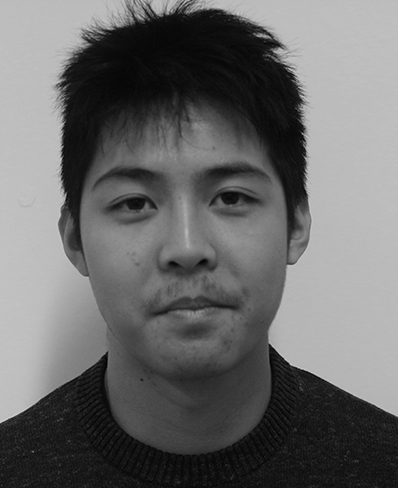
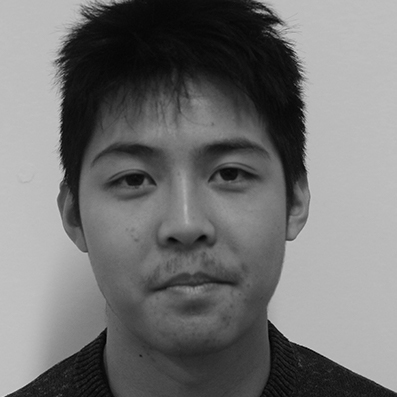
update sans responsive

Changed region(s): [[0.0, 0.0, 1.0, 1.0], [0.4534, 0.1814, 0.4836, 0.2116], [0.1209, 0.9975, 0.1511, 1.0]]

diff --git a/index.html b/index.html
@@ -3,57 +3,73 @@
 
 <head>
   <link rel="stylesheet" href="https://maxcdn.bootstrapcdn.com/bootstrap/4.0.0-beta.2/css/bootstrap.min.css" integrity="sha384-PsH8R72JQ3SOdhVi3uxftmaW6Vc51MKb0q5P2rRUpPvrszuE4W1povHYgTpBfshb" crossorigin="anonymous">
-
+  <link rel="stylesheet" href="css/style.css">
   <meta charset="utf-8">
   <title>Legendart-me</title>
 </head>
 
 <body>
 
-  <header>
+  <header class="header">
     <nav class="navbar navbar-expand-lg navbar-light bg-light">
       <div class="navbar-brand" href="#">Legendart-me</div>
     </nav>
-
   </header>
 
-  <img src="img/image.jpg" class="img-fluid" alt="Responsive image">
-  <p class="lead">
-    Nous sommes 4 étudiants à HETIC en WEB de la promo P2020.
-  </p>
+  <section class="sectionBigPicture">
+    <img src="img/bigPicture.jpg" class="img-fluid" alt="Responsive image">
+  </section>
 
-  <div class="card-deck">
-    <div class="card">
-      <img class="card-img-top" src="img/alexandre.jpg" alt="Card image cap" style="width: 150px;border-radius:100px;">
-      <div class="card-body">
-        <p class="card-text">Je m'appelle Alexandre Martins, j'ai 18 ans et j'étudie actuellement en Bachelor Web à HETIC.</p>
-      </div>
-    </div>
-    <div class="card">
-      <img class="card-img-top" src="img/dorian.jpg" alt="Card image cap" style="width: 150px;border-radius:100px;">
-      <div class="card-body">
-        <p class="card-text">Je m'appelle Dorian Taing, j'ai 18 ans et j'étudie actuellement en Bachelor Web à HETIC.</p>
-      </div>
-    </div>
-    <div class="card">
-      <img class="card-img-top" src="img/vincent.jpg" alt="Card image cap" style="width: 150px;border-radius:100px;">
-      <div class="card-body">
-        <p class="card-text">Je m'appelle Vincent Pham, j'ai 25 ans et j'étudie actuellement en Bachelor Web à HETIC.</p>
-      </div>
-    </div>
-    <div class="card">
-      <img class="card-img-top" src="img/kevin.jpg" alt="Card image cap" style="width: 150px;border-radius:100px;">
-      <div class="card-body">
-        <p class="card-text">Je m'appelle Kévin Özdemir, j'ai 18 ans et j'étudie actuellement en Bachelor Web à HETIC.</p>
-      </div>
-    </div>
-  </div>
-  <footer>
-    <hr>
-    <p class="align-text-bottom">© Company, Inc. 2017
-
+  <section class="sectionDescriptionGroupe">
+    <p class="lead">
+      Nous sommes 4 étudiants de la promo Web P2020 à HETIC.
     </p>
-  <img style="width: 200px" class="float-right" src="logo.jpg" alt="">
+  </section>
+
+  <section class="sectionPhoto">
+      <div class="card-deck">
+        <div class="card">
+          <img class="card-img-top" src="img/alexandre.jpg" alt="Card image cap" style="width: 150px;border-radius:100%;">
+          <div class="card-body">
+            <p class="card-text">Je m'appelle Alexandre Martins, j'ai 18 ans et j'étudie actuellement en Bachelor Web à HETIC.</p>
+          </div>
+        </div>
+        <div class="card">
+          <img class="card-img-top" src="img/dorian.jpg" alt="Card image cap" style="width: 150px;border-radius:100%;">
+          <div class="card-body">
+            <p class="card-text">Je m'appelle Dorian Taing, j'ai 18 ans et j'étudie actuellement en Bachelor Web à HETIC.</p>
+          </div>
+        </div>
+        <div class="card">
+          <img class="card-img-top" src="img/vincent.jpg" alt="Card image cap" style="width: 150px;border-radius:100%;">
+          <div class="card-body">
+            <p class="card-text">Je m'appelle Vincent Pham, j'ai 25 ans et j'étudie actuellement en Bachelor Web à HETIC.</p>
+          </div>
+        </div>
+        <div class="card">
+          <img class="card-img-top" src="img/kevin.jpg" alt="Card image cap" style="width: 150px;border-radius:100%;">
+          <div class="card-body">
+            <p class="card-text">Je m'appelle Kévin Özdemir, j'ai 18 ans et j'étudie actuellement en Bachelor Web à HETIC.</p>
+        </div>
+      </div>
+    </div>
+  </section>
+
+  <div class="sectionTechno">
+    <h3 class="technoTitle">
+      Compétences de l'équipe
+    </h3>
+    <ul>
+      <li>HTML</li>
+      <li>CSS</li>
+      <li>JavaScript</li>
+      <li>Python</li>
+      <li>PHP</li>
+    </ul>
+  </div>
+  <footer class="footer">
+    <p class="copyright">© Company, Inc. 2017</p>
+    <img class="logoHETIC" src="img/logoHETIC.png" alt="">
   </footer>
 </body>
 

diff --git a/css/style.css b/css/style.css
@@ -1,0 +1,82 @@
+body {
+  background-color: #eeeeee;
+}
+
+.header {
+  margin-bottom: 30px;
+}
+
+.sectionBigPicture {
+  margin-bottom: 30px;
+}
+
+.sectionDescriptionGroupe {
+  display: flex;
+  justify-content: flex-start;
+  width: 90%;
+  margin: auto;
+  margin-bottom: 30px;
+}
+
+.sectionPhoto {
+  margin-bottom: 30px;
+  display: flex;
+  justify-content: center;
+
+}
+
+.card-deck {
+
+  width: 90%;
+display: flex;
+}
+
+.card {
+align-self: center;
+  padding: 20px 5px;
+  min-width: 180px;
+  max-width: 250px;
+}
+
+.card-deck {
+  justify-content: center;
+}
+
+.card-img-top {
+  max-width: 100%;
+}
+
+.sectionTechno {
+  -webkit-clip-path: polygon(0 0, 40% 0, 100% 100%, 0% 100%);
+  clip-path: polygon(0 0, 40% 0, 100% 100%, 0% 100%);
+  background: #999999;
+  margin-bottom: 30px;
+  padding: 5%;
+}
+
+.technoTitle {
+  margin-bottom: 40px;
+  max-width: 35%;
+}
+
+.footer {
+  width: 95%;
+  display: flex;
+  flex-direction: row;
+  justify-content: space-between;
+  margin: auto;
+  margin-bottom: 20px;
+}
+
+.copyright {
+  align-self: flex-end;
+}
+
+/*.logoHETIC {
+width: 200px;
+height:200px;
+}*/
+
+.card-img-top {
+  align-self: center;
+}
